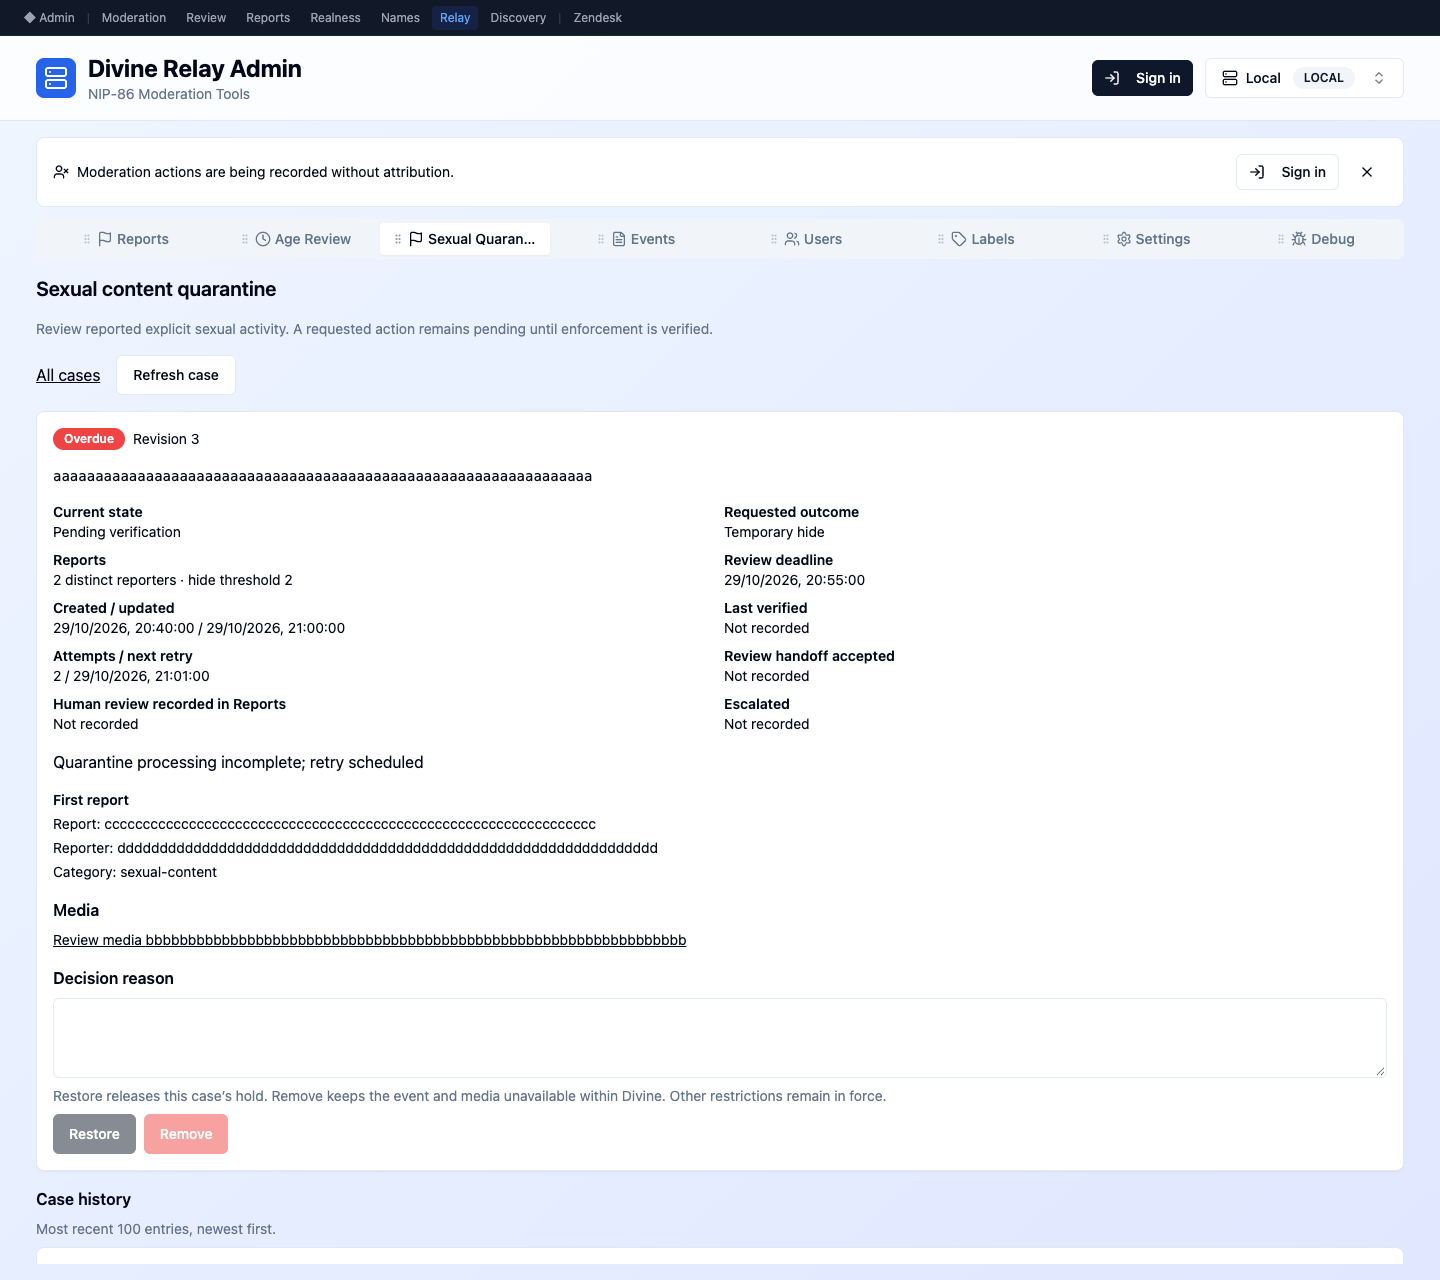
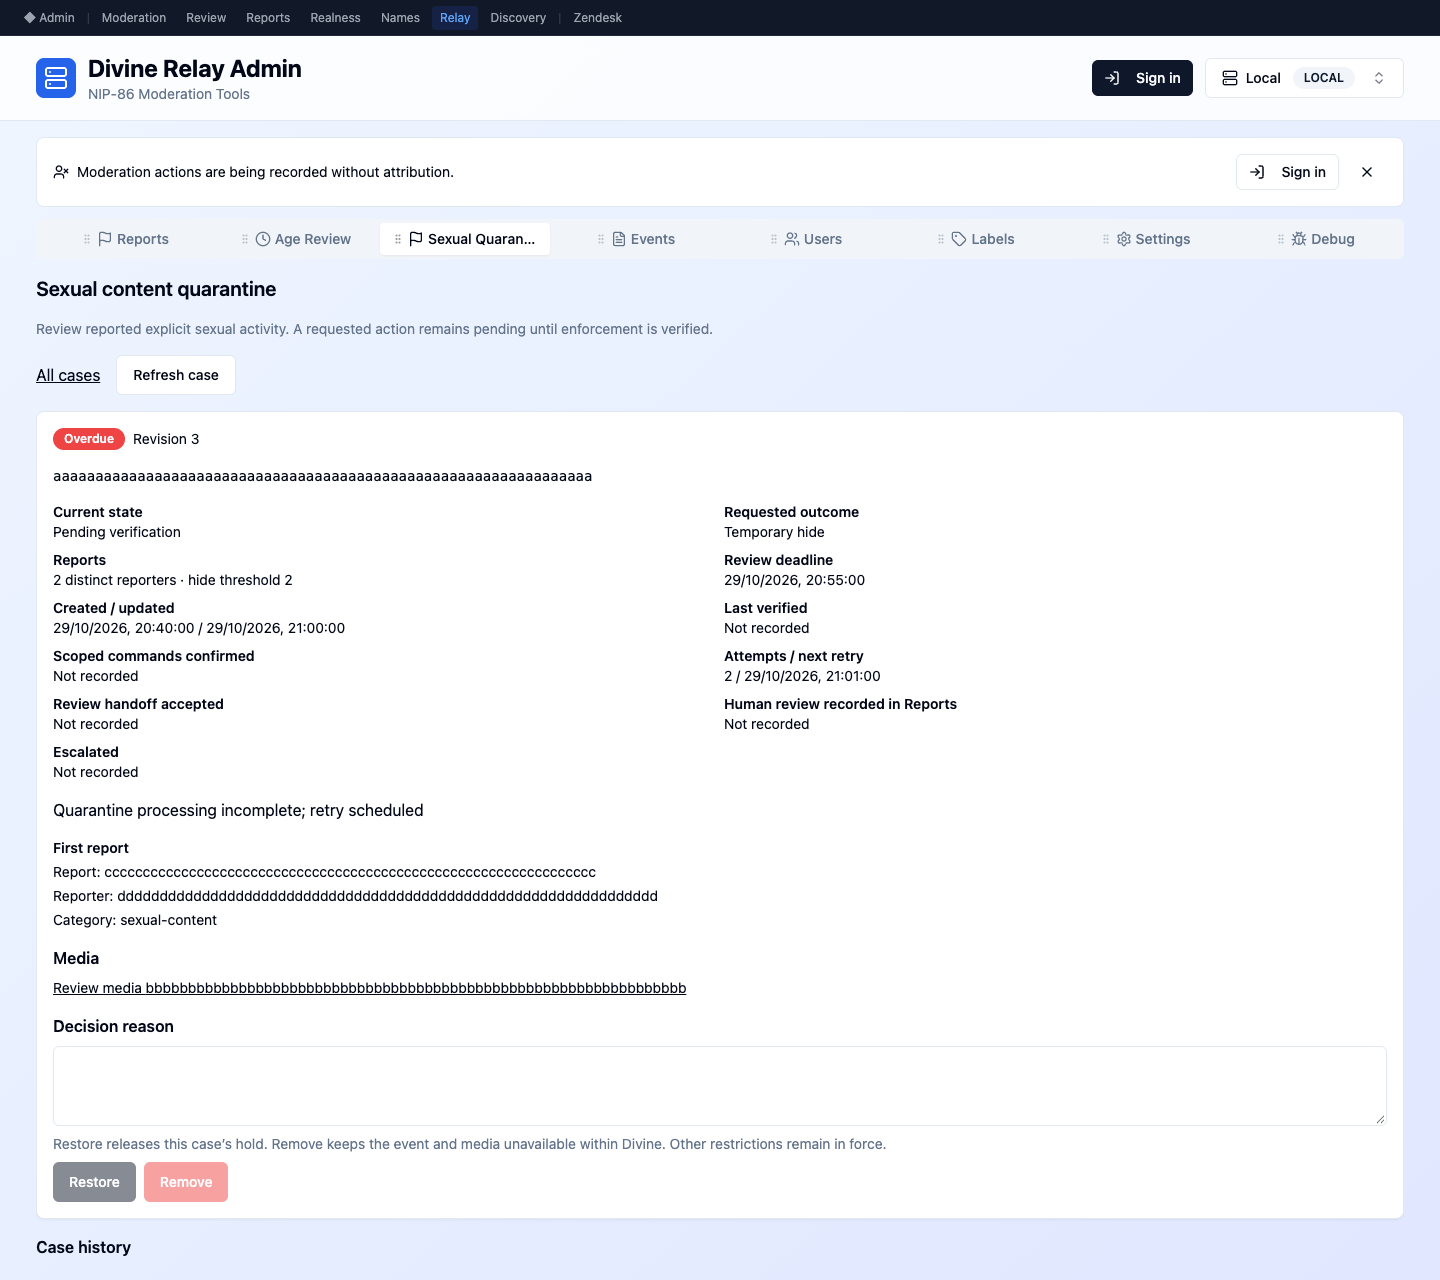
docs(moderation): refresh synthetic quarantine review captures

Changed region(s): [[0.0312, 0.8438, 1.0, 1.0], [0.0312, 0.5, 0.4688, 0.8125], [0.5, 0.5, 0.6562, 0.5625]]

diff --git a/docs/screenshots/sexual-quarantine/README.md b/docs/screenshots/sexual-quarantine/README.md
@@ -1,14 +1,13 @@
 # Synthetic reviewer UI captures
 
 Before source: `ddf6da544feab172bcb57a0f8d697cb1ba6e38f7` in an isolated detached worktree.
-After source: `93623731a92abf2234d403eb5b12120c8aeb5b8a`.
-The artifact commit adds only these captures and their provenance. Later worker-only policy fixes leave the captured UI source unchanged.
+After source: `c99ab190171f77634e15a741be976792ec0f6eb9` (refreshed 2026-10-30).
+The artifact commit adds only these captures and their provenance. The original before captures are preserved; all six after captures include priority paging, command acknowledgment and the separate base-ban guidance.
 
 Captured with Playwright and headless Google Chrome in a new browser context,
 light theme, 1440×1280 desktop and 390×1000 mobile viewports. Capture command:
-`node /tmp/sexual-quarantine-ui-capture.mjs` (preinstalled browser runtime, no
-repository dependency changes). Each revision ran in its own local Vite process
-and working directory so Tailwind compiled the correct source revision.
+`node /tmp/sexual-quarantine-ui-refresh.mjs` (preinstalled browser runtime, no
+repository dependency changes). The initial before revision ran in its own local Vite process and working directory. The refresh ran the current isolated worktree on loopback port 58181 with an empty env directory and synthetic API configuration.
 
 The old entry point is `/reports`; the new screen is `/sexual-quarantine`.
 Open the synthetic full-ID case to reach its detail view. The browser intercepts
